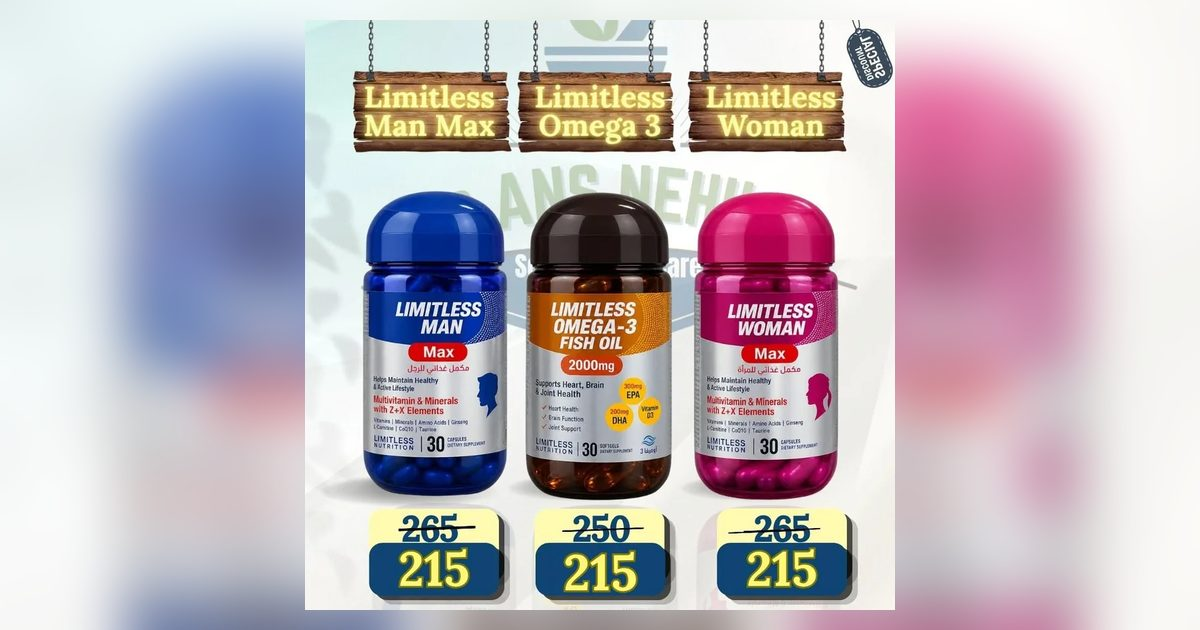
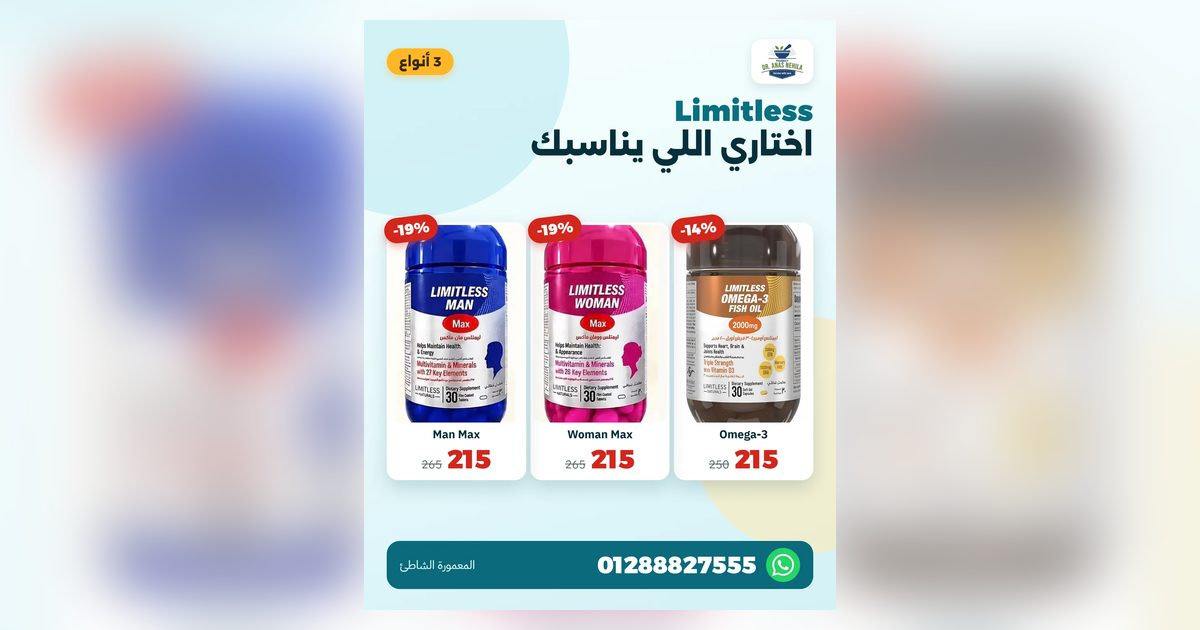
Link previews: use the new Limitless and Molfix post designs

diff --git a/diapers/index.html b/diapers/index.html
@@ -12,7 +12,7 @@
 <meta property="og:site_name" content="صيدلية د. أنس نحيلة">
 <meta property="og:title" content="عروض الحفاضات | صيدلية د. أنس نحيلة">
 <meta property="og:description" content="حفاضات مولفيكس العادي والـ Pants بخصم لحد 20%، كل المقاسات. اطلب على واتساب.">
-<meta property="og:image" content="https://anasnehila.com/img/og/diapers.jpg?v=ec272a64">
+<meta property="og:image" content="https://anasnehila.com/img/og/diapers.jpg?v=1fba0ee9">
 <meta property="og:image:width" content="1200">
 <meta property="og:image:height" content="630">
 <meta name="robots" content="noindex,follow">

diff --git a/o/limitless/index.html b/o/limitless/index.html
@@ -11,7 +11,7 @@
 <meta property="og:site_name" content="صيدلية د. أنس نحيلة">
 <meta property="og:title" content="عرض Limitless: Man Max و Woman Max بـ 215 · Omega-3 بـ 215">
 <meta property="og:description" content="اطلب من صيدلية د. أنس نحيلة، المعمورة الشاطئ · فاتحين 24 ساعة.">
-<meta property="og:image" content="https://anasnehila.com/img/og/limitless.jpg?v=29bde47d">
+<meta property="og:image" content="https://anasnehila.com/img/og/limitless.jpg?v=b9151abd">
 <meta property="og:image:type" content="image/jpeg">
 <meta property="og:image:width" content="1200">
 <meta property="og:image:height" content="630">
